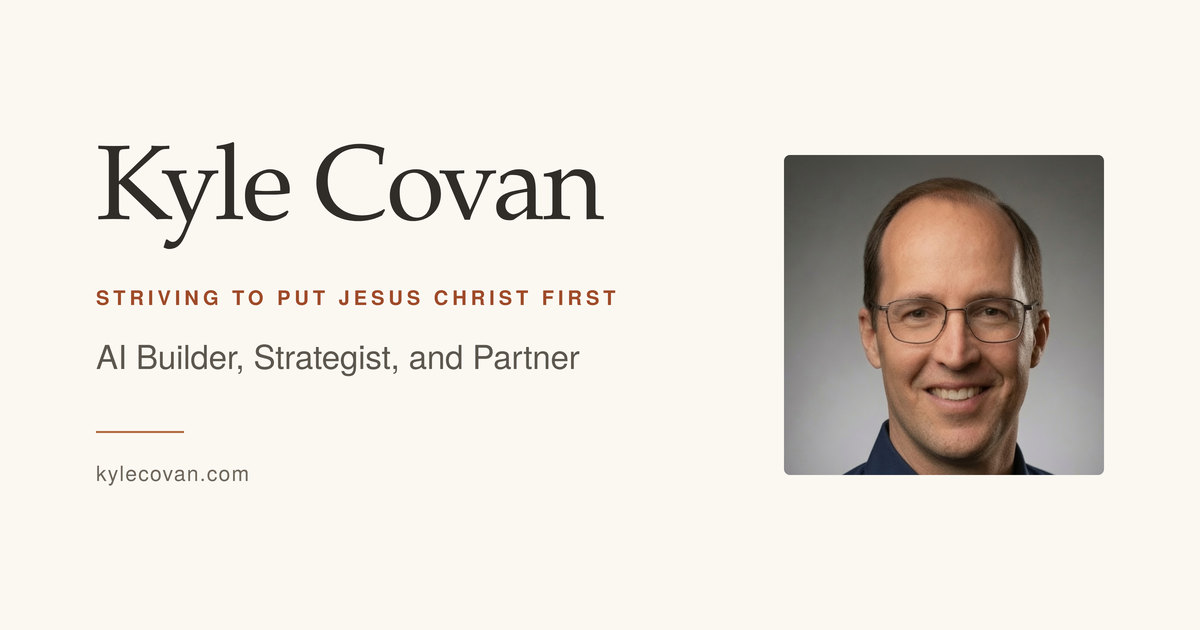
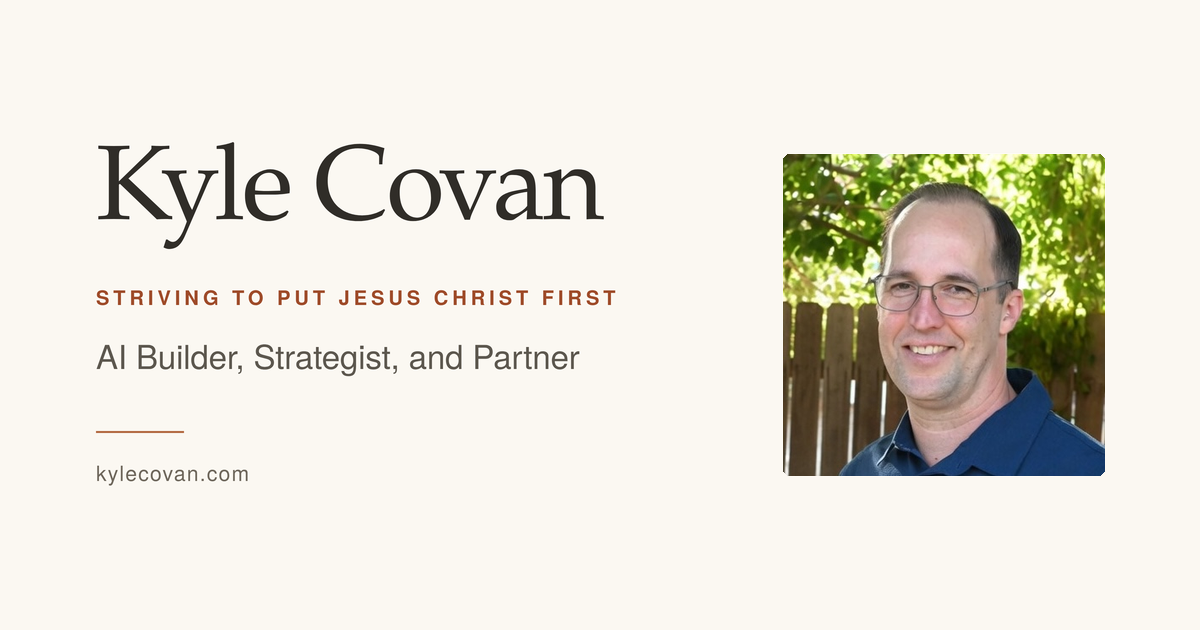
New portrait everywhere, and the asset pipeline is back
Kyle supplied a fresh 381px square headshot. It now drives all three
images from one source: the 340px WebP portrait data URI, the 64px PNG
favicon data URI, and the photo in the 1200x630 share card.

This also closes handoff §7 item 7, open since July 30. build_assets.py
and headshot.jpg are both in the repo now, so the next portrait change
is one command instead of an archaeology exercise. Pillow added to the
venv for it.

og.png is NOT redrawn. The script paints out the photo box and
composites the new portrait in, leaving every text pixel of the card
untouched, because the typography was set in a design tool that is
still missing. Painting the box first makes the run idempotent. The
handoff now records that if the card's words ever change, that source
is still gone.

Rendered and checked before committing, per lesson 3: card, hero at 2x,
and the favicon at 16/32/64. Both suites green, contrast unchanged.

Changed region(s): [[0.6475, 0.2413, 0.925, 0.754]]

diff --git a/build_assets.py b/build_assets.py
@@ -1,0 +1,115 @@
+"""Rebuild every image on the site from one source file.
+
+    source .venv/bin/activate && python3 build_assets.py
+
+handoff §7 item 7 recorded that this script and `headshot.jpg` were both missing
+from the repo, and that they had to be recovered before any image work. That is
+what this is. Both now live here, so the next portrait change is one command
+rather than an archaeology exercise.
+
+WHY THE IMAGES ARE TEXT FILES. handoff §2: a visitor's browser fetches exactly
+one file per page. The portrait and favicon are therefore base64 data URIs
+inlined into the HTML, not files a browser goes and gets. `og.png` is the
+documented exception, since only crawlers fetch it.
+
+THREE OUTPUTS, ONE SOURCE:
+
+  src/data/portrait.txt   340px WebP, quality 80, as a data URI
+  src/data/favicon.txt     64px PNG, as a data URI
+  public/og.png           1200x630 share card, photo replaced in place
+
+The portrait is NOT pre-masked. handoff §3: the square and its 3px radius live
+entirely in CSS, so the source stays a plain square and the shape stays
+editable without a re-export.
+
+The favicon is cut from THE SAME source as the portrait, deliberately. Two
+separately tuned crops of one face drift apart over time, and the July 29
+favicon rebuild exists because that had already happened once.
+
+ABOUT og.png. This script does NOT redraw the card. It paints over the photo
+box and composites the new portrait into it, leaving every text pixel of the
+existing card untouched. That is on purpose: the typography was set once in a
+design tool that is not in this repo, and regenerating it here would mean
+guessing at fonts the site does not otherwise use. Painting the box with the
+background colour first makes the operation idempotent, so running this twice
+gives the same file as running it once.
+
+If the card's WORDS ever need to change, this script cannot do it. That needs
+the original design source, and this comment is the warning that it is missing.
+"""
+import base64
+import pathlib
+from PIL import Image, ImageDraw
+
+ROOT = pathlib.Path(__file__).parent
+SOURCE = ROOT / 'headshot.jpg'
+
+# The cream the whole site is built on. verify.py asserts contrast against this
+# exact triple, so it is not a value to nudge by eye.
+BG = (251, 248, 242)
+
+# Where the portrait sits inside the 1200x630 card, measured off the shipped
+# og.png rather than assumed. Radius 6 is the site's 3px portrait radius scaled
+# to this size, and matches what was measured on the original.
+OG_BOX = (783, 154, 1104, 475)
+OG_RADIUS = 6
+
+PORTRAIT_PX = 340   # handoff §3: ships at 340, do not scale the CSS box past ~170
+FAVICON_PX = 64     # legible at 32, mush at 16. Known and accepted.
+WEBP_QUALITY = 80
+
+
+def load_square():
+    """The source must be square. The shape is CSS's job, the framing is not."""
+    im = Image.open(SOURCE).convert('RGB')
+    w, h = im.size
+    if w != h:
+        side = min(w, h)
+        im = im.crop(((w - side) // 2, (h - side) // 2,
+                      (w + side) // 2, (h + side) // 2))
+        print(f'  source was {w}x{h}, centre-cropped to {side}x{side}')
+    return im
+
+
+def data_uri(im, fmt, **save_args):
+    import io
+    buf = io.BytesIO()
+    im.save(buf, fmt, **save_args)
+    mime = 'image/webp' if fmt == 'WEBP' else 'image/png'
+    return f'data:{mime};base64,' + base64.b64encode(buf.getvalue()).decode()
+
+
+def rounded_mask(size, radius):
+    mask = Image.new('L', size, 0)
+    ImageDraw.Draw(mask).rounded_rectangle([(0, 0), (size[0] - 1, size[1] - 1)],
+                                           radius=radius, fill=255)
+    return mask
+
+
+def main():
+    src = load_square()
+    print(f'source: {SOURCE.name} {src.size[0]}x{src.size[1]}')
+
+    portrait = src.resize((PORTRAIT_PX, PORTRAIT_PX), Image.LANCZOS)
+    uri = data_uri(portrait, 'WEBP', quality=WEBP_QUALITY, method=6)
+    (ROOT / 'src/data/portrait.txt').write_text(uri)
+    print(f'  portrait.txt  {PORTRAIT_PX}px webp q{WEBP_QUALITY}  {len(uri):,} chars')
+
+    favicon = src.resize((FAVICON_PX, FAVICON_PX), Image.LANCZOS)
+    uri = data_uri(favicon, 'PNG', optimize=True)
+    (ROOT / 'src/data/favicon.txt').write_text(uri)
+    print(f'  favicon.txt   {FAVICON_PX}px png            {len(uri):,} chars')
+
+    card = Image.open(ROOT / 'public/og.png').convert('RGB')
+    l, t, r, b = OG_BOX
+    side = r - l + 1
+    # Paint the box out first so this never depends on what is already there.
+    ImageDraw.Draw(card).rectangle([(l, t), (r, b)], fill=BG)
+    photo = src.resize((side, side), Image.LANCZOS)
+    card.paste(photo, (l, t), rounded_mask((side, side), OG_RADIUS))
+    card.save(ROOT / 'public/og.png', 'PNG', optimize=True)
+    print(f'  og.png        photo replaced at {side}x{side}, text untouched')
+
+
+if __name__ == '__main__':
+    main()

diff --git a/docs/handoff.md b/docs/handoff.md
@@ -697,8 +697,18 @@ to put in a build log.
    every token needs a dark counterpart, terracotta most of all since it was
    darkened specifically to pass AA on cream, and the portrait backdrop and
    `og.png` are both light.
-7. **`build_assets.py` and `headshot.jpg` are not in the repo.** Recover them
-   before any future image work.
+7. ~~**`build_assets.py` and `headshot.jpg` are not in the repo.**~~
+   **Resolved August 3, 2026.** Both are in the repo now. One command rebuilds
+   every image on the site from one source file:
+   `source .venv/bin/activate && python3 build_assets.py`. Pillow was added to
+   the venv for it. The script deliberately does **not** redraw `og.png`: it
+   paints out the photo box and composites the new portrait in, leaving every
+   text pixel alone, because the card's typography was set in a design tool
+   that is still not in this repo. **If the card's WORDS ever need to change,
+   that source is still missing.** Note also that the July 29 warning about not
+   scaling the CSS box past ~170px no longer applies the same way: the portrait
+   now comes from a fresh 381px square export rather than crop B of a lost
+   original, so a genuine re-export is possible again.
 8. ~~**Cloudflare rewrites `robots.txt`.**~~ **Resolved July 30, 2026** — Kyle
    disabled Managed robots.txt in Cloudflare's AI Crawl Control and set AI-bot
    blocking to "Do not block." Training crawlers are now allowed by choice.
